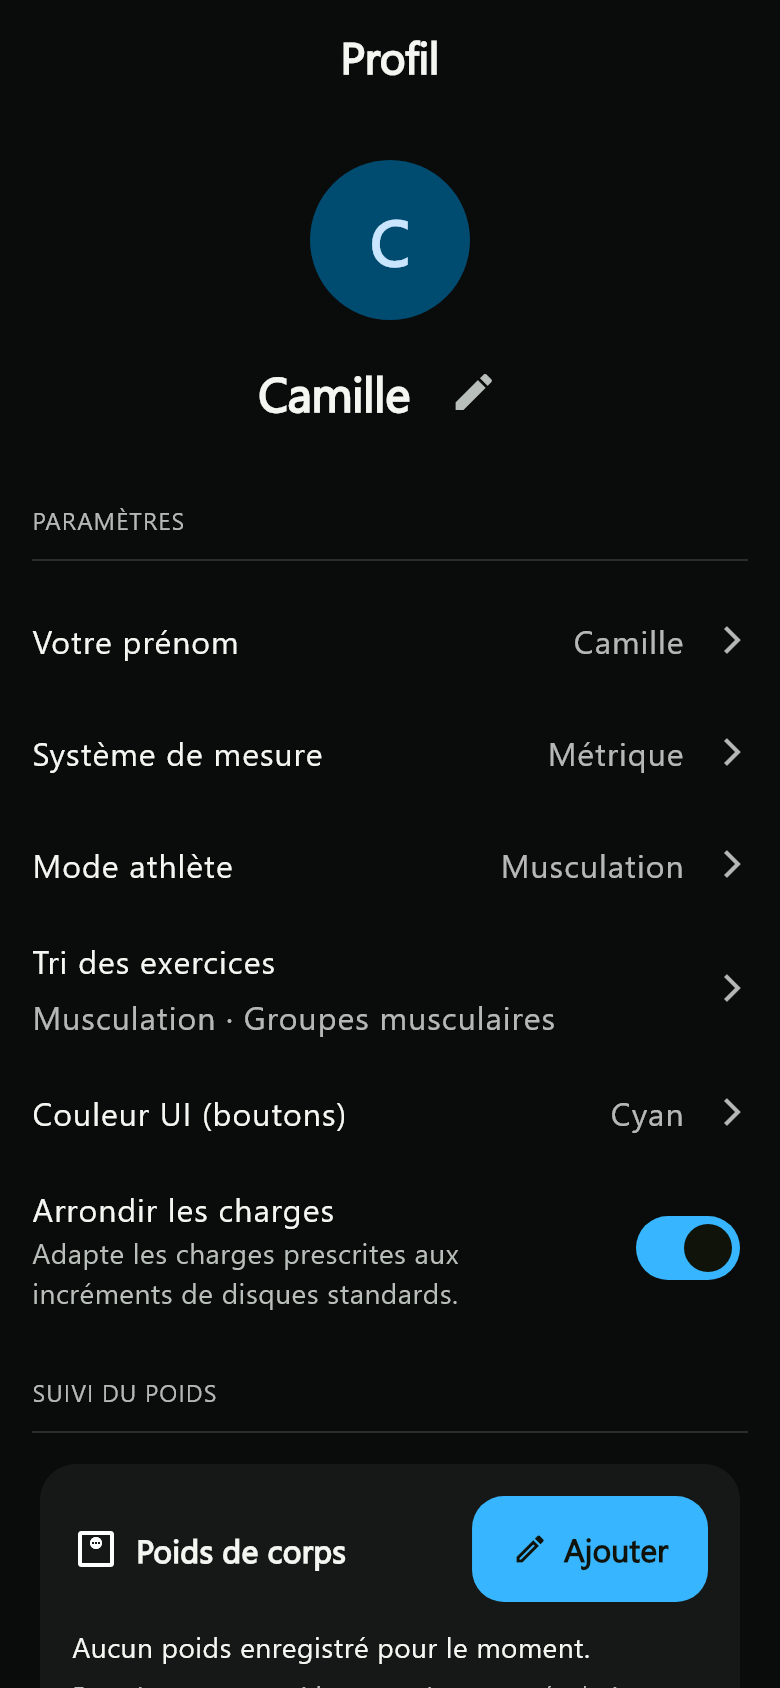
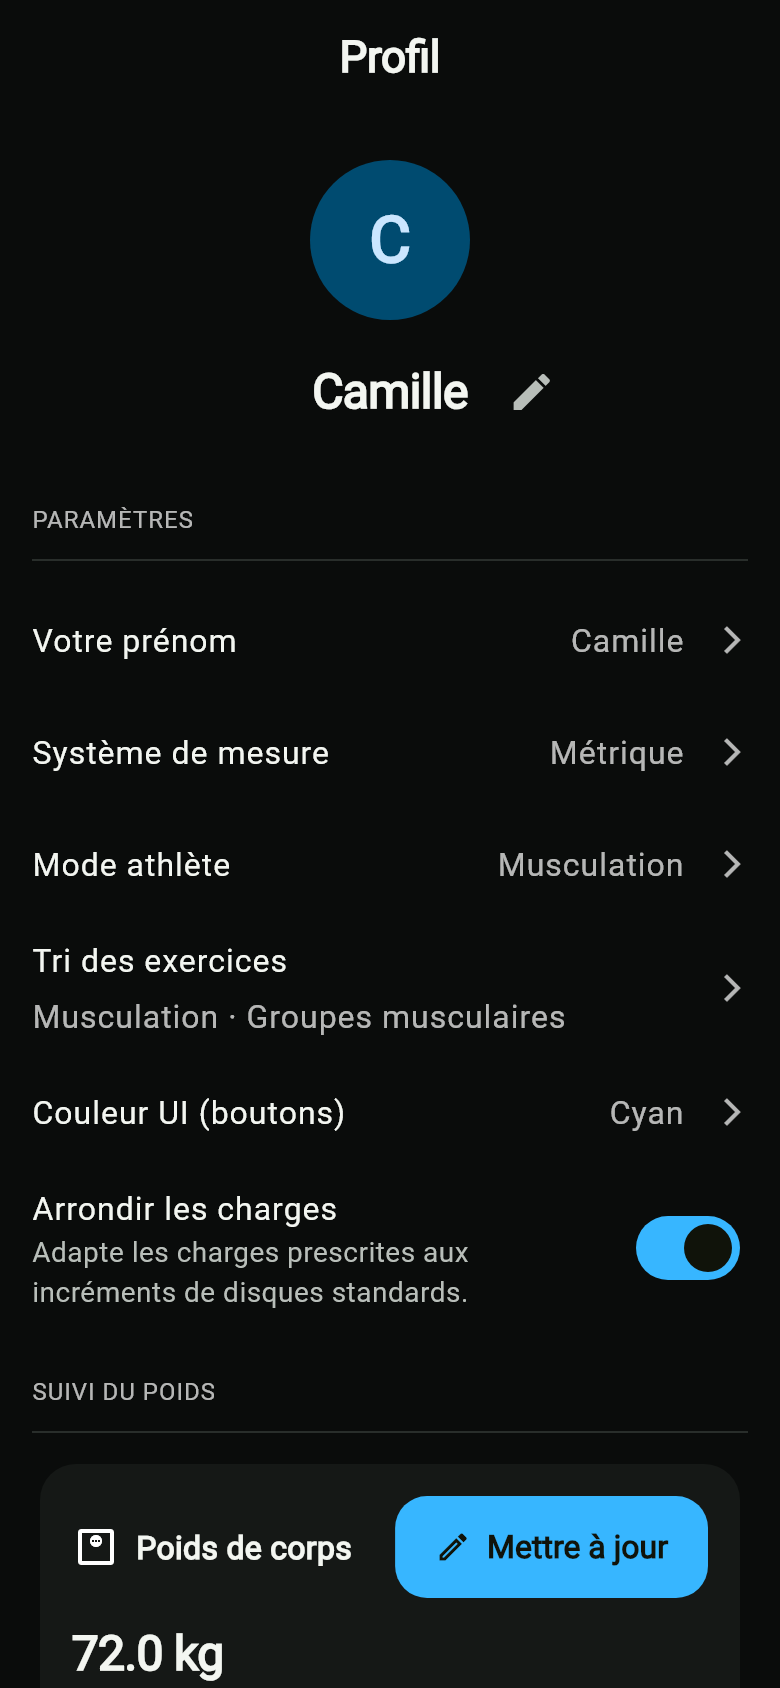
Refresh the demo screenshots and center profile names

diff --git a/README.md b/README.md
@@ -31,7 +31,7 @@ A noter : Les images et une majeure partie de l'app (l'après version 3.0.0) son
 | <img src="screenshots/programmes.png" alt="Catalogue des programmes Muscu dans Power" width="260"> | <img src="screenshots/exercices.png" alt="Exercices classés par groupe musculaire" width="260"> | <img src="screenshots/rapports.png" alt="Rapport d’entraînement avec séances, séries et groupes musculaires" width="260"> |
 
 <div align="center">
-<img src="screenshots/partage-story.png" alt="Préparation d’une story avec une carte récapitulative des exercices" width="290">
+<img src="screenshots/partage-story.png" alt="Exemple de fiche Power à partager en story, avec exercices et séries" width="290">
 </div>
 
 *Captures de démonstration réalisées avec les écrans de Power et des données
